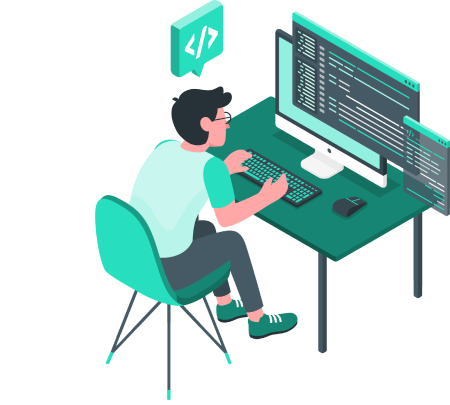
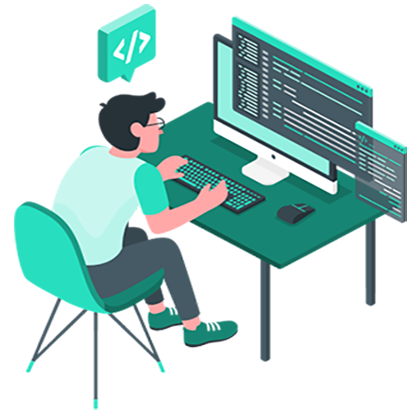
adding home img, fixing menu and home text position

diff --git a/css/style.css b/css/style.css
@@ -17,8 +17,13 @@
 .grid-1 {
     grid-column-start: 1;
     grid-column-end: 2;
-    margin-top: 200px;
-    margin-left: 150px;
+    /* margin-top: 200px; */
+    /* margin-left: 150px; */
+    display: flex;
+    flex-direction: column;
+    align-items: center;
+    justify-content: center;
+    align-content: space-between;
 }
 .grid-2 {
     grid-column-start: 2;
@@ -26,7 +31,7 @@
     display: flex;
     flex-direction: column;
     align-items: center;
-    justify-content: space-between;
+    justify-content: space-around;
     align-content: center;
     /* margin-top: 10px; */
 }
@@ -45,10 +50,10 @@
 .home-btns {
     display: flex;
     flex-direction: row;
-    align-self: flex-start;
     justify-content: flex-start;
-    /* padding: 10px; */
-    margin-top: 20px;
+    /* padding: 10px;  */
+    margin-top: 25px;
+    margin-right: 35px;
 }
 
 
@@ -58,6 +63,25 @@
     font-weight: 500;
     letter-spacing: 2px;
 }
+
+.wave {
+    animation-name: wave-animation;  /* Refers to the name of your @keyframes element below */
+    animation-duration: 2.5s;        /* Change to speed up or slow down */
+    animation-iteration-count: infinite;  /* Never stop waving :) */
+    transform-origin: 70% 70%;       /* Pivot around the bottom-left palm */
+    display: inline-block;
+  }
+  
+@keyframes wave-animation {
+    0% { transform: rotate( 0.0deg) }
+    10% { transform: rotate(14.0deg) }  /* The following five values can be played with to make the waving more or less extreme */
+    20% { transform: rotate(-8.0deg) }
+    30% { transform: rotate(14.0deg) }
+    40% { transform: rotate(-4.0deg) }
+    50% { transform: rotate(10.0deg) }
+    60% { transform: rotate( 0.0deg) }  /* Reset for the last half to pause */
+    100% { transform: rotate( 0.0deg) }
+  }
 
 .intro2 {
     color: var(--light-gray);
@@ -119,6 +143,8 @@
     justify-content: center;
     align-items: center;
     align-content: center;
+    /* margin-top: 10px; */
+    
 }
 
 .menu ul {
@@ -130,8 +156,9 @@
     list-style-type: none;
     width: 100%;
     height: 100%;
-    padding: 5px;
-    margin: 5px;
+    /* padding: 5px; */
+    /* margin: 5px; */
+    margin-left: 30px;
 }
 
 .menu ul li {
@@ -150,4 +177,17 @@
 }
 .menu ul li a:hover {
     opacity: 1;
+}
+
+.image-intro {
+    width: auto;
+    height: auto;
+    margin-bottom: 80px;
+    margin-right: 100px;
+}
+
+.image-intro  img {
+    width: 100%;
+    height: 100%;
+    /* object-fit: cover; */
 }

diff --git a/index.html b/index.html
@@ -16,7 +16,7 @@
     <section class="home">
         <div class="grid-1">
             <div class="text-intro">
-                <h1 class="intro1">Hey, I'm <span class="green-color">Denys</span></h1>
+                <h1 class="intro1">Hey, I'm <span class="green-color">Denys</span><span class="wave">👋</span></h1>
                 <h2 class="intro2">I love <span class="green-color">programming</span> and <span class="green-color">AI</span></h2>
                 <h4 class="intro3">Stick around to see some of my work.</h4>
             </div>
